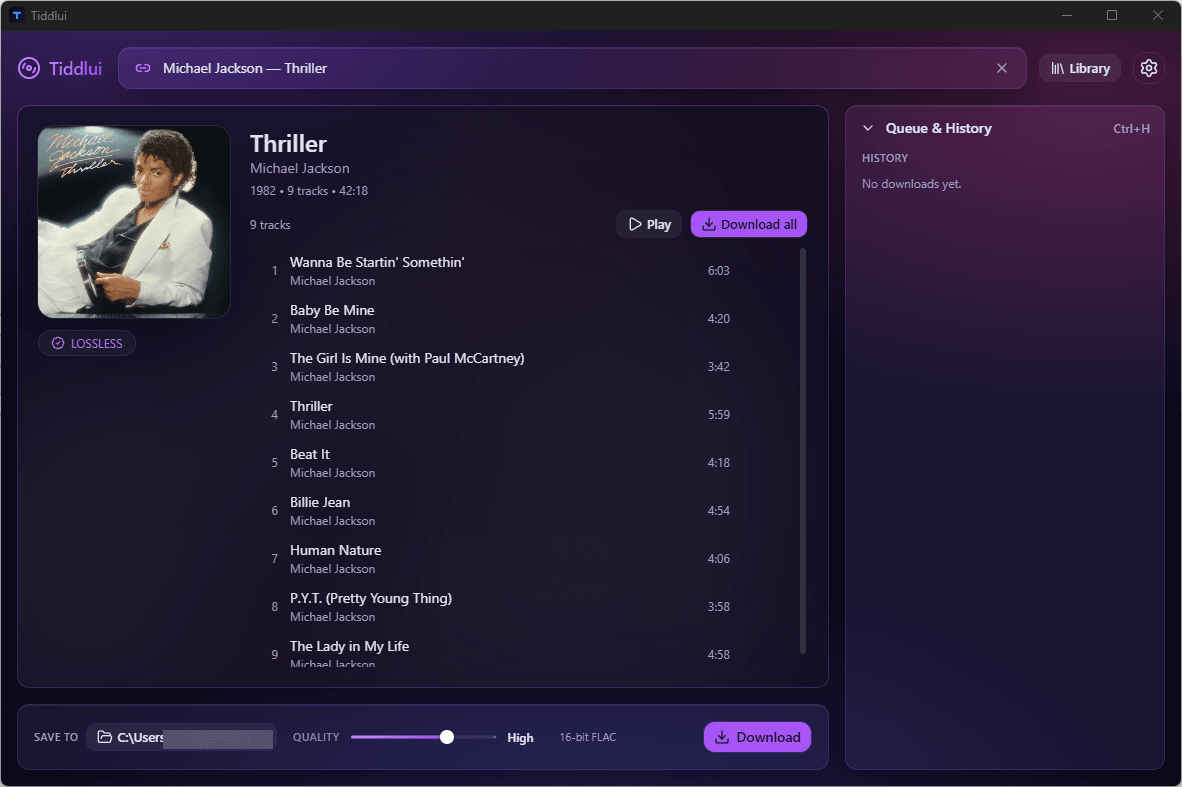
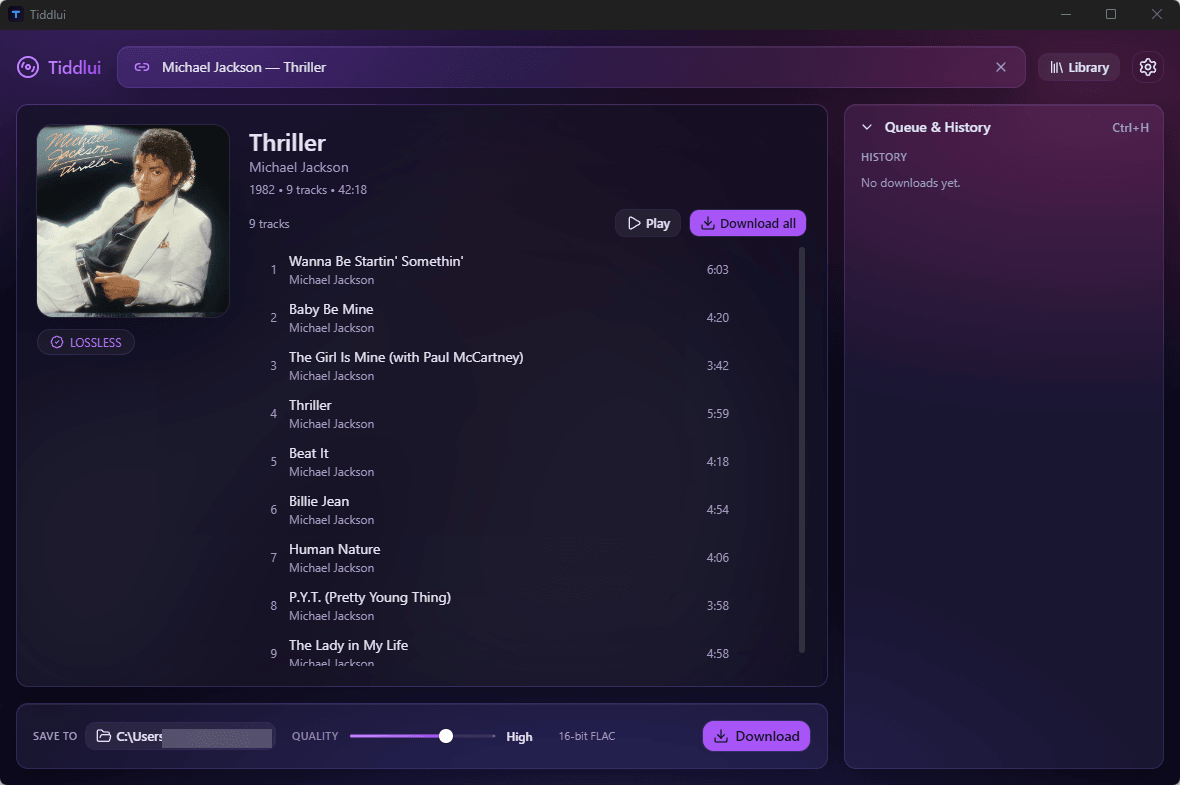
docs: refresh the README and use standard badges
- Badges use shields.io defaults instead of a hand-picked dark palette.
- Crop the 1px window border off the hero screenshot.
- More space between sections, with a divider or a spacer before each one.
- Document the Animations setting, which exists in the UI but was missing
  from the settings table.
- Cover the library search, sorting and playlist folders added in 1.6.0, and
  add a Desktop integration section for taskbar progress and tiddlui:// links.

diff --git a/README.md b/README.md
@@ -12,11 +12,11 @@ Search it, preview it, download it. No command line needed.
 
 <br>
 
-[![Release](https://img.shields.io/github/v/release/czgabi/tiddlui?style=flat-square&labelColor=0d1117&color=1f2328)](../../releases/latest)
-[![Downloads](https://img.shields.io/github/downloads/czgabi/tiddlui/total?style=flat-square&labelColor=0d1117&color=1f2328)](../../releases)
-[![Build](https://img.shields.io/github/actions/workflow/status/czgabi/tiddlui/release.yml?style=flat-square&labelColor=0d1117)](../../actions/workflows/release.yml)
-[![Platform](https://img.shields.io/badge/platform-Windows%20%7C%20Linux-1f2328?style=flat-square&labelColor=0d1117)](#install)
-[![License](https://img.shields.io/github/license/czgabi/tiddlui?style=flat-square&labelColor=0d1117&color=1f2328)](LICENSE)
+[![Release](https://img.shields.io/github/v/release/czgabi/tiddlui)](../../releases/latest)
+[![Downloads](https://img.shields.io/github/downloads/czgabi/tiddlui/total)](../../releases)
+[![Build](https://img.shields.io/github/actions/workflow/status/czgabi/tiddlui/release.yml)](../../actions/workflows/release.yml)
+[![Platform](https://img.shields.io/badge/platform-Windows%20%7C%20Linux-blue)](#install)
+[![License](https://img.shields.io/github/license/czgabi/tiddlui)](LICENSE)
 
 [Install](#install) · [First download](#your-first-download) · [Build from source](#build-from-source) · [How it works](#how-it-works)
 
@@ -33,8 +33,9 @@ Search it, preview it, download it. No command line needed.
 - Search Tidal, or paste any track / album / playlist / artist link
 - Download in up to 24-bit Hi-Res, or plain MP3 if you prefer small files
 - Preview any track before you commit to downloading it
-- Browse your own Tidal favourites without opening Tidal
+- Browse, search and sort your own Tidal favourites without opening Tidal
 - Keeps your files named and foldered the way you want them
+- Picks up `tiddlui://` links and shows download progress on the taskbar
 
 Runs on Windows and Linux.
 
@@ -45,6 +46,8 @@ Runs on Windows and Linux.
 You need your own Tidal subscription. Quality is capped by your plan, and you
 sign in on Tidal's own website, so Tiddlui never sees your password.
 
+<br>
+
 ### Windows
 
 Download **`Tiddlui_x.y.z_x64-setup.exe`** from [Releases](../../releases), run
@@ -53,6 +56,8 @@ it, then click **Sign in**.
 ffmpeg is required to convert audio. If you don't already have it, Tiddlui
 downloads it automatically on first launch, showing a short
 "Preparing ffmpeg…" banner.
+
+<br>
 
 ### Arch Linux
 
@@ -63,6 +68,8 @@ yay -S tiddlui        # or: paru -S tiddlui
 > **Not on the AUR yet.** The `PKGBUILD` lives in [`packaging/aur/`](packaging/aur/)
 > and has to be published by a maintainer after a release is tagged. See
 > [`docs/PACKAGING.md`](docs/PACKAGING.md). Until then, build from source.
+
+<br>
 
 ### Debian / Ubuntu
 
@@ -83,7 +90,6 @@ A distro-agnostic `.AppImage` is attached to every release too.
 
 <img src="assets/screenshots/search.png" alt="Search results for an album" width="820" />
 
-
 1. **Find something.** Type in the search bar (`Ctrl+K`), or paste a Tidal link.
 2. **Pick a quality** with the slider at the bottom.
 3. **Hit Download.** For an album, use **Download all**.
@@ -103,11 +109,15 @@ first, and near-misses still work ("avici levels" finds Avicii).
 Click an artist to see their bio, top tracks and full discography. Click any
 album to drill in; the back arrow returns you.
 
+<br>
+
 ### Preview before downloading
 
 Hit **Preview** on a track to stream it straight from Tidal. Nothing is written
 to disk. The seek bar draws a real waveform of the track, and **Play** on an
 album or playlist plays the whole thing in order.
+
+<br>
 
 ### Quality
 
@@ -121,10 +131,11 @@ album or playlist plays the whole thing in order.
 Turn on **Convert to MP3** in Settings to also get a 320 kbps MP3, useful for
 car stereos and older players. Tags and cover art carry across.
 
+<br>
+
 ### Downloads, queue and retry
 
 <img src="assets/screenshots/downloading.png" alt="A queue entry downloading three tracks at once" width="330" />
-
 
 Albums and playlists download several tracks at once: 3 by default, adjustable
 from 1 to 5. The queue shows combined speed and the real quality of each file.
@@ -137,20 +148,39 @@ from 1 to 5. The queue shows combined speed and the real quality of each file.
 - **Duplicates ask first.** If a file already exists you can skip, replace or
   keep both, and apply that choice to the rest of the album.
 
+<br>
+
 ### Your Tidal library
 
 **Library** opens your Tidal favourites (tracks, albums, artists and playlists)
 so you can download things you already saved without hunting for links.
 
-### The player
+Search the whole library at once with the loupe, with results grouped by kind.
+Sort by recently added, title or artist (recently followed, for artists). More
+entries load as you reach the bottom of the list.
 
+Playlist folders are browsable, so playlists you filed into folders on Tidal are
+reachable here instead of being flattened into one list.
+
+<br>
+
+### The player
 
 Finished downloads load into the player automatically. You get a seekable
 waveform drawn from the actual audio, a volume slider that appears when you
 hover the speaker, and click-anywhere scrubbing.
 
-### Themes
+<br>
 
+### Desktop integration
+
+Download progress shows on the taskbar icon, so you can watch a long queue with
+the window minimised. `tiddlui://` links open in the running copy rather than
+starting a second one, and only one instance runs at a time.
+
+<br>
+
+### Themes
 
 Twelve themes, five dark and seven light. The flagship is **Aero**, a
 liquid-glass look with a refractive rim that shifts as you hover. There's also
@@ -161,7 +191,6 @@ Tangerine and Paper.
 
 ## Settings
 
-
 | Setting | What it does |
 | --- | --- |
 | Download folder | Where files are saved. You can also drag a folder onto the window. |
@@ -171,7 +200,10 @@ Tangerine and Paper.
 | Start muted | Begin every session muted; volume still starts at max |
 | Simultaneous downloads | Tracks fetched at once (1–5). Higher is faster, but Tidal may throttle heavy use. |
 | Theme | Twelve looks, applied instantly |
+| Animations | Turn off all motion. Forced off when your system asks for reduced motion. |
 | Notify when downloads finish | Desktop notification and a taskbar flash |
+
+<br>
 
 ### Keyboard shortcuts
 
@@ -294,6 +326,8 @@ support. See [`docs/LINUX.md`](docs/LINUX.md).
 **Why a separate Python process?** [`tiddl`](https://github.com/oskvr37/tiddl)
 does the hard part: Tidal's API, stream manifests, tagging. Running it as a
 sidecar means we use it as-is rather than reimplementing it in Rust.
+
+<br>
 
 ### Project layout
 
